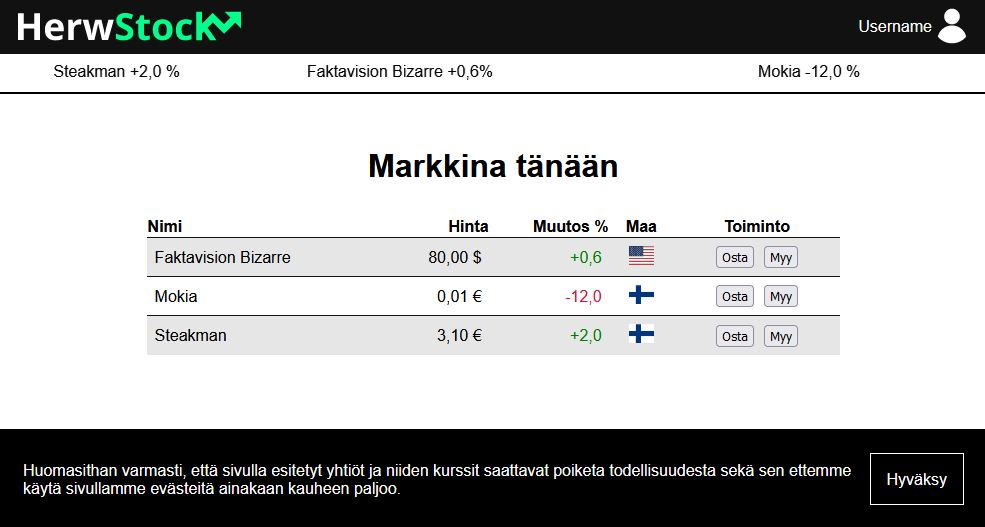
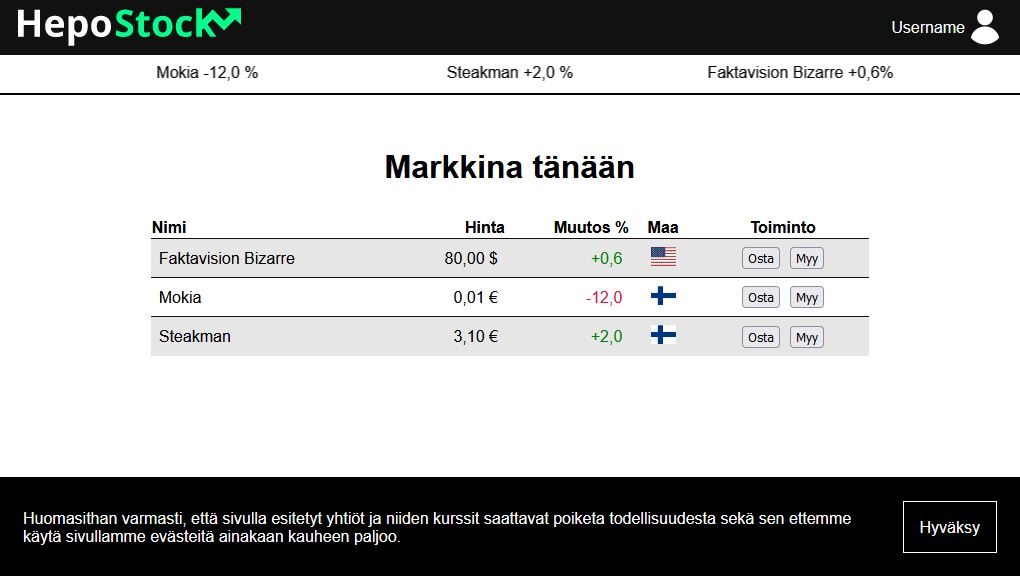
edit demo 3

diff --git a/demos/d3/demo3.html b/demos/d3/demo3.html
@@ -96,11 +96,11 @@ html_css_basics
 
 <ul>
   <li>Lisää sivulle nav tagi jossa on tumma taustaväri</li>
-  <li>Lisää naviin HerwStock svg logo ja tasaa se vasemmalle</li>
+  <li>Lisää naviin HepoStock svg logo ja tasaa se vasemmalle</li>
   <li>Lisää naviin avatar-ikoni ja käyttäjänimi teksti, jotka tasataan oikealle</li>
   <li>Alla kuvat svg:nä</li>
 </ul>
-<div style="background-color: #222; max-width: 400px;"><img src="img/herwstock_logo.svg" alt=""></div>
+<div style="background-color: #222; max-width: 400px;"><img src="img/hepostock_logo.svg" alt=""></div>
 <div style="background-color: #222; max-width: 400px;"><img src="img/avatar_icon.svg" alt=""></div>
 <h3>Reverse-engineering (takaperin insinööreily?)</h3>
 

diff --git a/demos/d3/d3_done.html b/demos/d3/d3_done.html
@@ -4,13 +4,13 @@
     <meta charset="UTF-8">
     <meta http-equiv="X-UA-Compatible" content="IE=edge">
     <meta name="viewport" content="width=device-width, initial-scale=1.0">
-    <title>HerwStock</title>
+    <title>HepoStock</title>
     <link rel="stylesheet" href="style.css">
 </head>
 <body>
 
     <nav>
-        <img src="img/herwstock_logo.svg" alt="herwstock_logo">
+        <img src="img/hepostock_logo.svg" alt="Hepostock_logo">
         <div>Username <img src="img/avatar_icon.svg" alt="avatar"></div>
 
     </nav>
